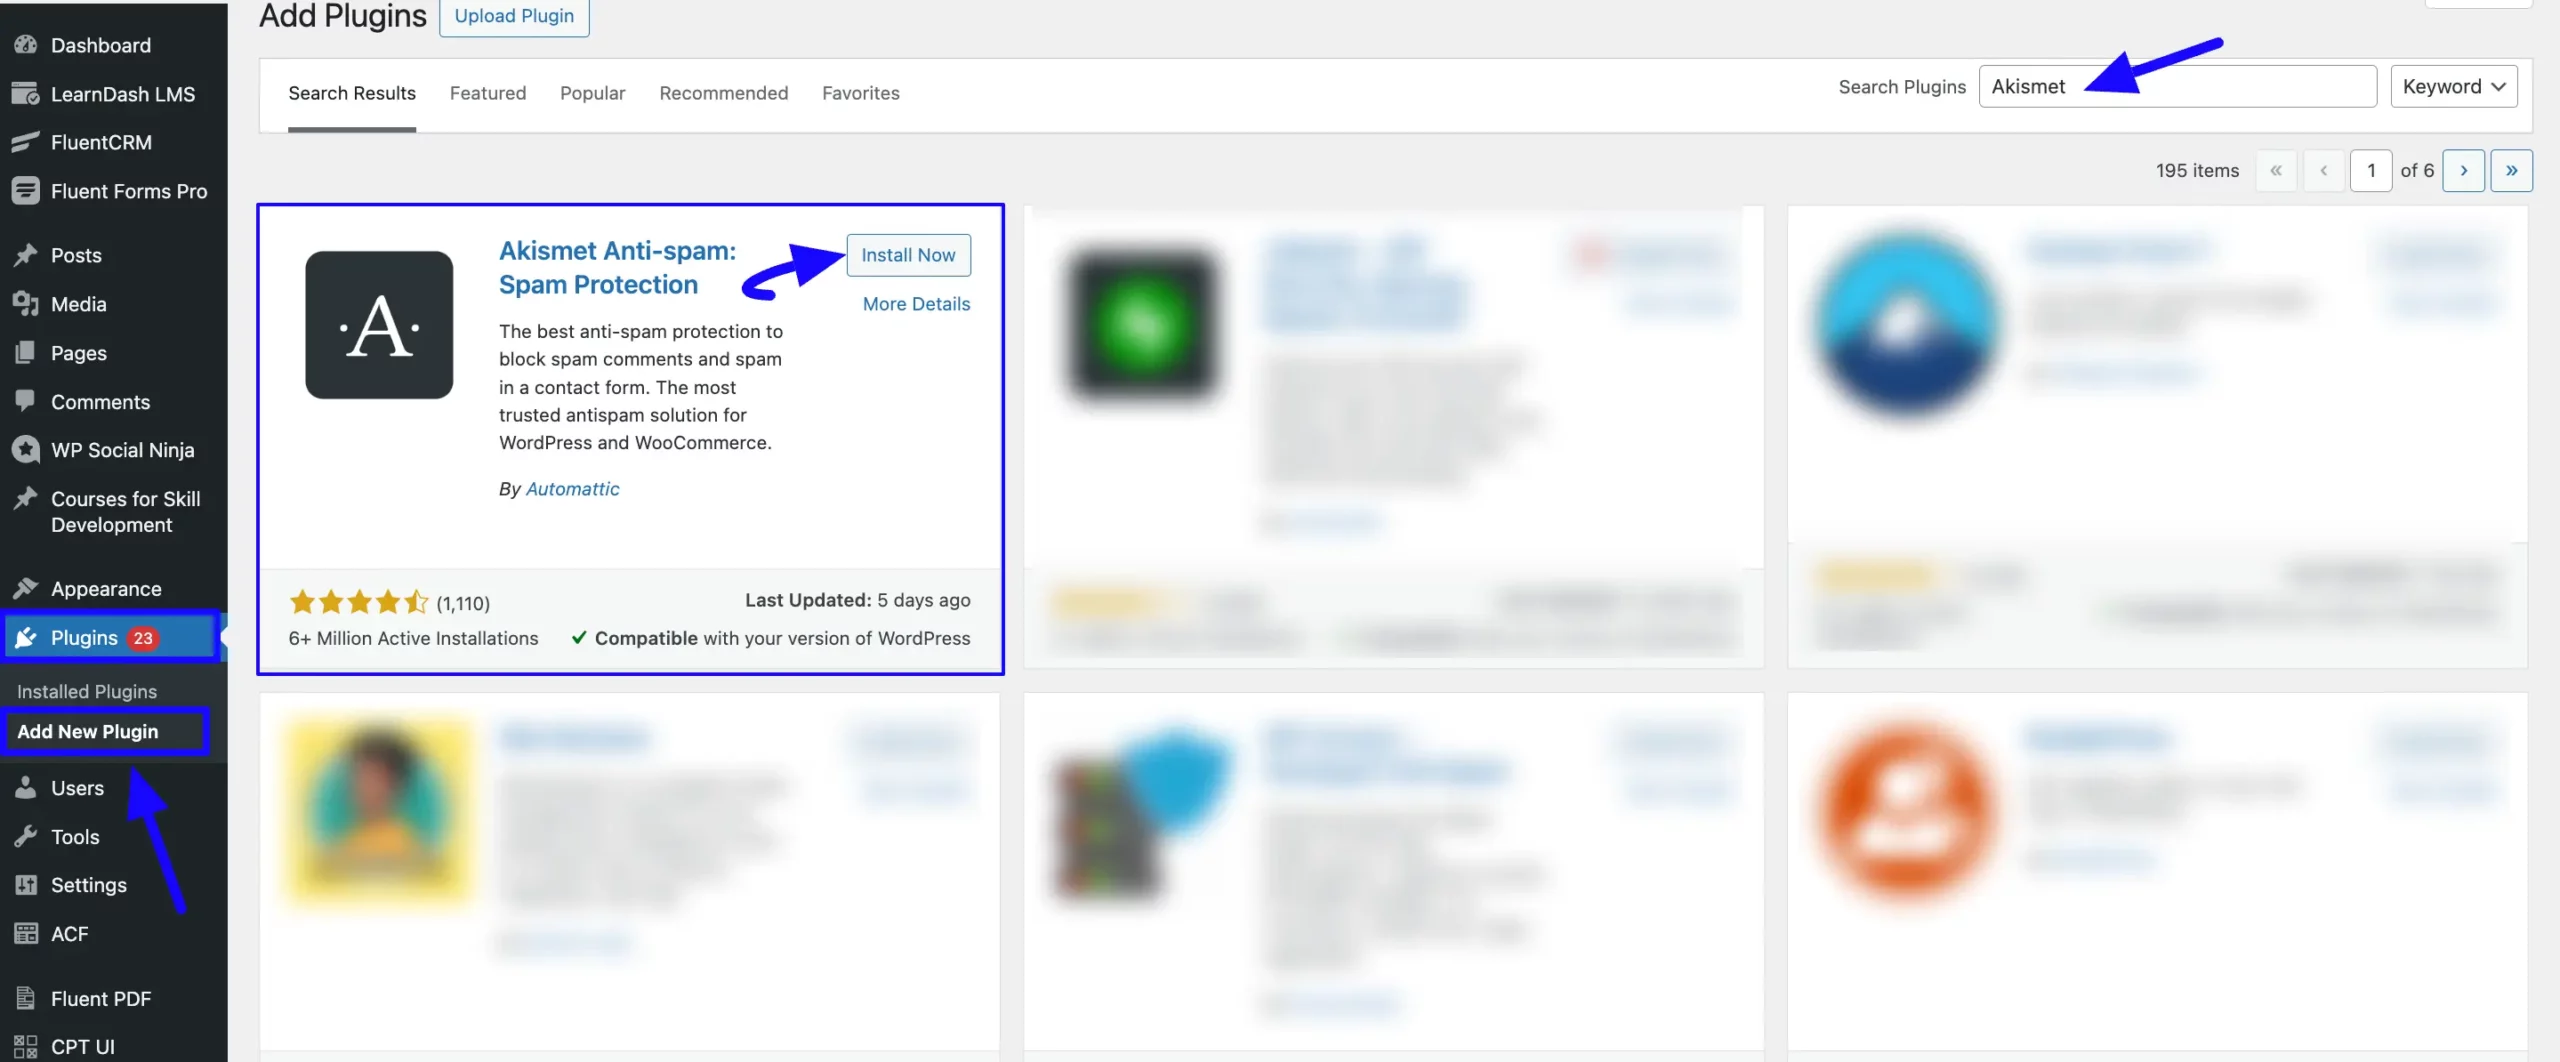
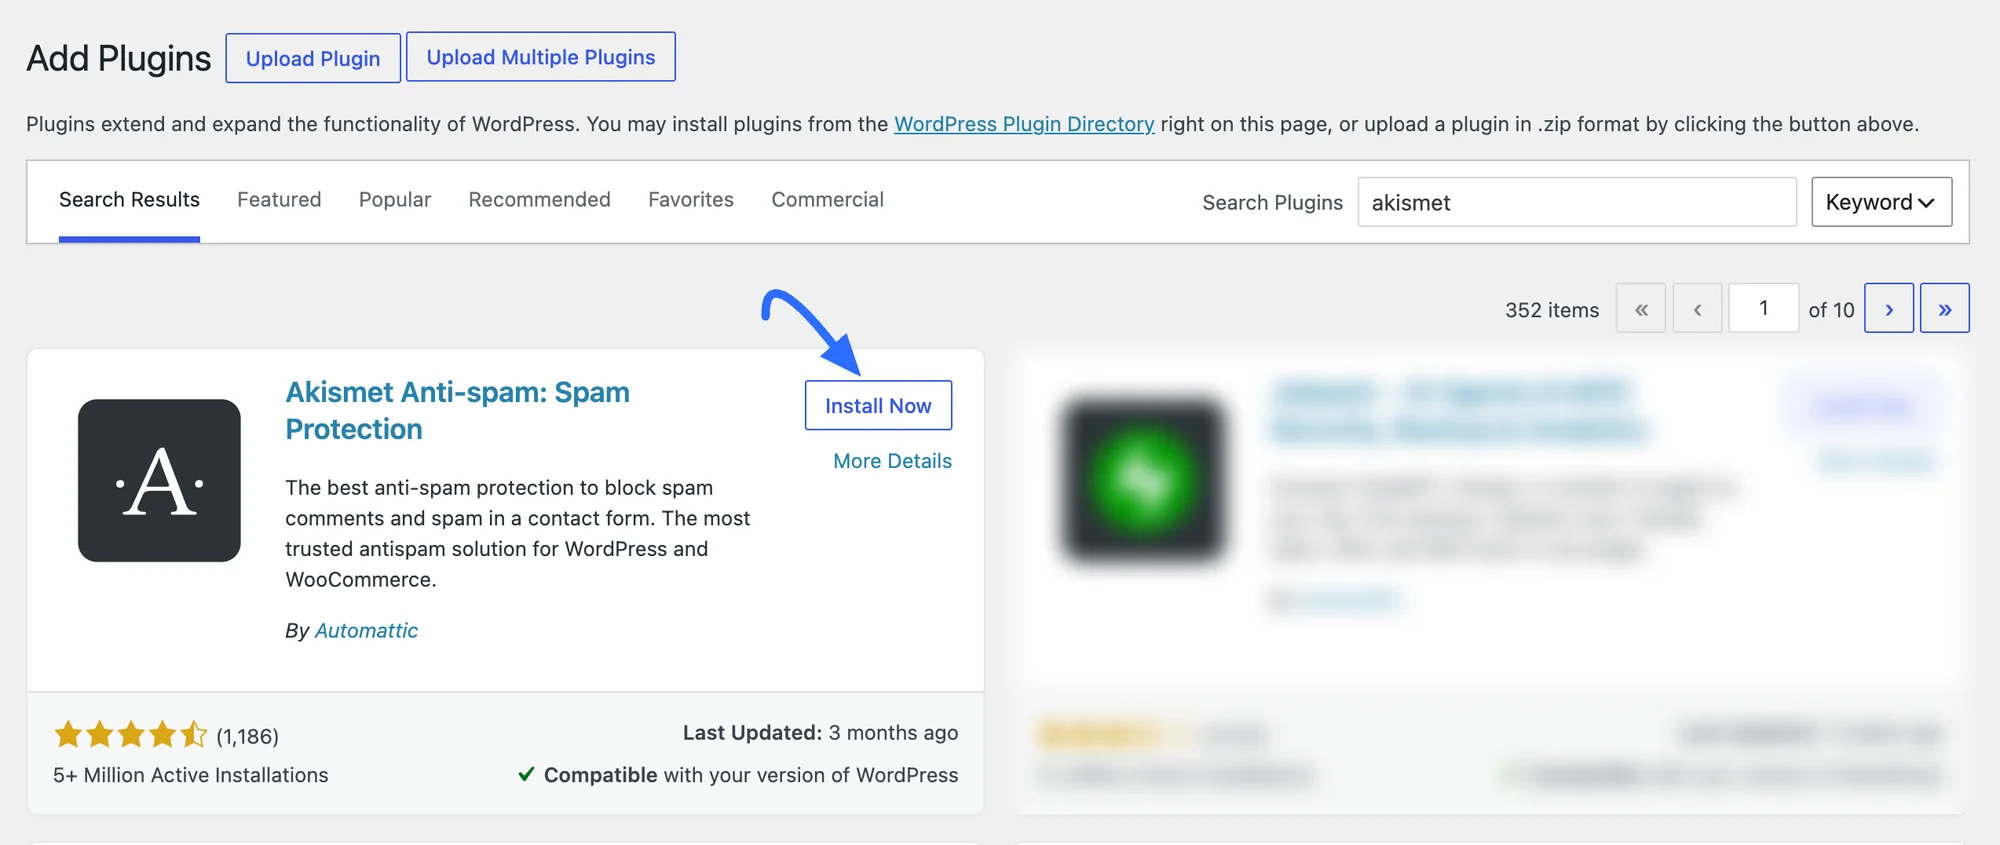
update Integrate Akismet doc

diff --git a/docs/security-spam/integrate-akismet.md b/docs/security-spam/integrate-akismet.md
@@ -1,5 +1,5 @@
 ---
-description: "Fluent Forms allows you to integrate Akismet to enhance security for your form entries, protecting them from spambots and keeping your contact lists…"
+description: "Integrate Akismet with Fluent Forms to check form submissions for spam, protect your entries from spambots, and keep your contact lists clean."
 ---
 
 # Integrate Akismet
@@ -13,7 +13,7 @@ Fluent Forms integrates with **Akismet** to protect your form entries from spamb
 
 In the **WordPress Admin Panel**, go to **Plugins** in the left menu and click **Add New Plugin**. Search for **Akismet** with the **Search Plugins** box on the right.
 
-Click **Install** to install the plugin.
+Click **Install Now** to install the plugin.
 
 ![Install Akismat Fluent Forms](/images/security-spam/integrate-akismet/1.-Install-Akismat-scaled.webp)
 
@@ -27,7 +27,7 @@ Go to **Global Settings** in the Fluent Forms navbar, expand **Security** in the
 
 - **Enable Akismet Integration:** Turn on the **Enable Akismet Integration** toggle to verify your form submissions with Akismet.
 
-- **Spam Validation:** Select what happens when a submission is marked as spam. Choose **Mark as Spam**, **Make the Form Submission as Failed**, or **Mark as Spam and Skip Processing**.
+- **Spam Validation:** After you turn on the toggle, select what happens when a submission is marked as spam. Choose **Mark as Spam**, **Make the Form Submission as Failed**, or **Mark as Spam and Skip Processing**.
 
 Click **Save**.
 
